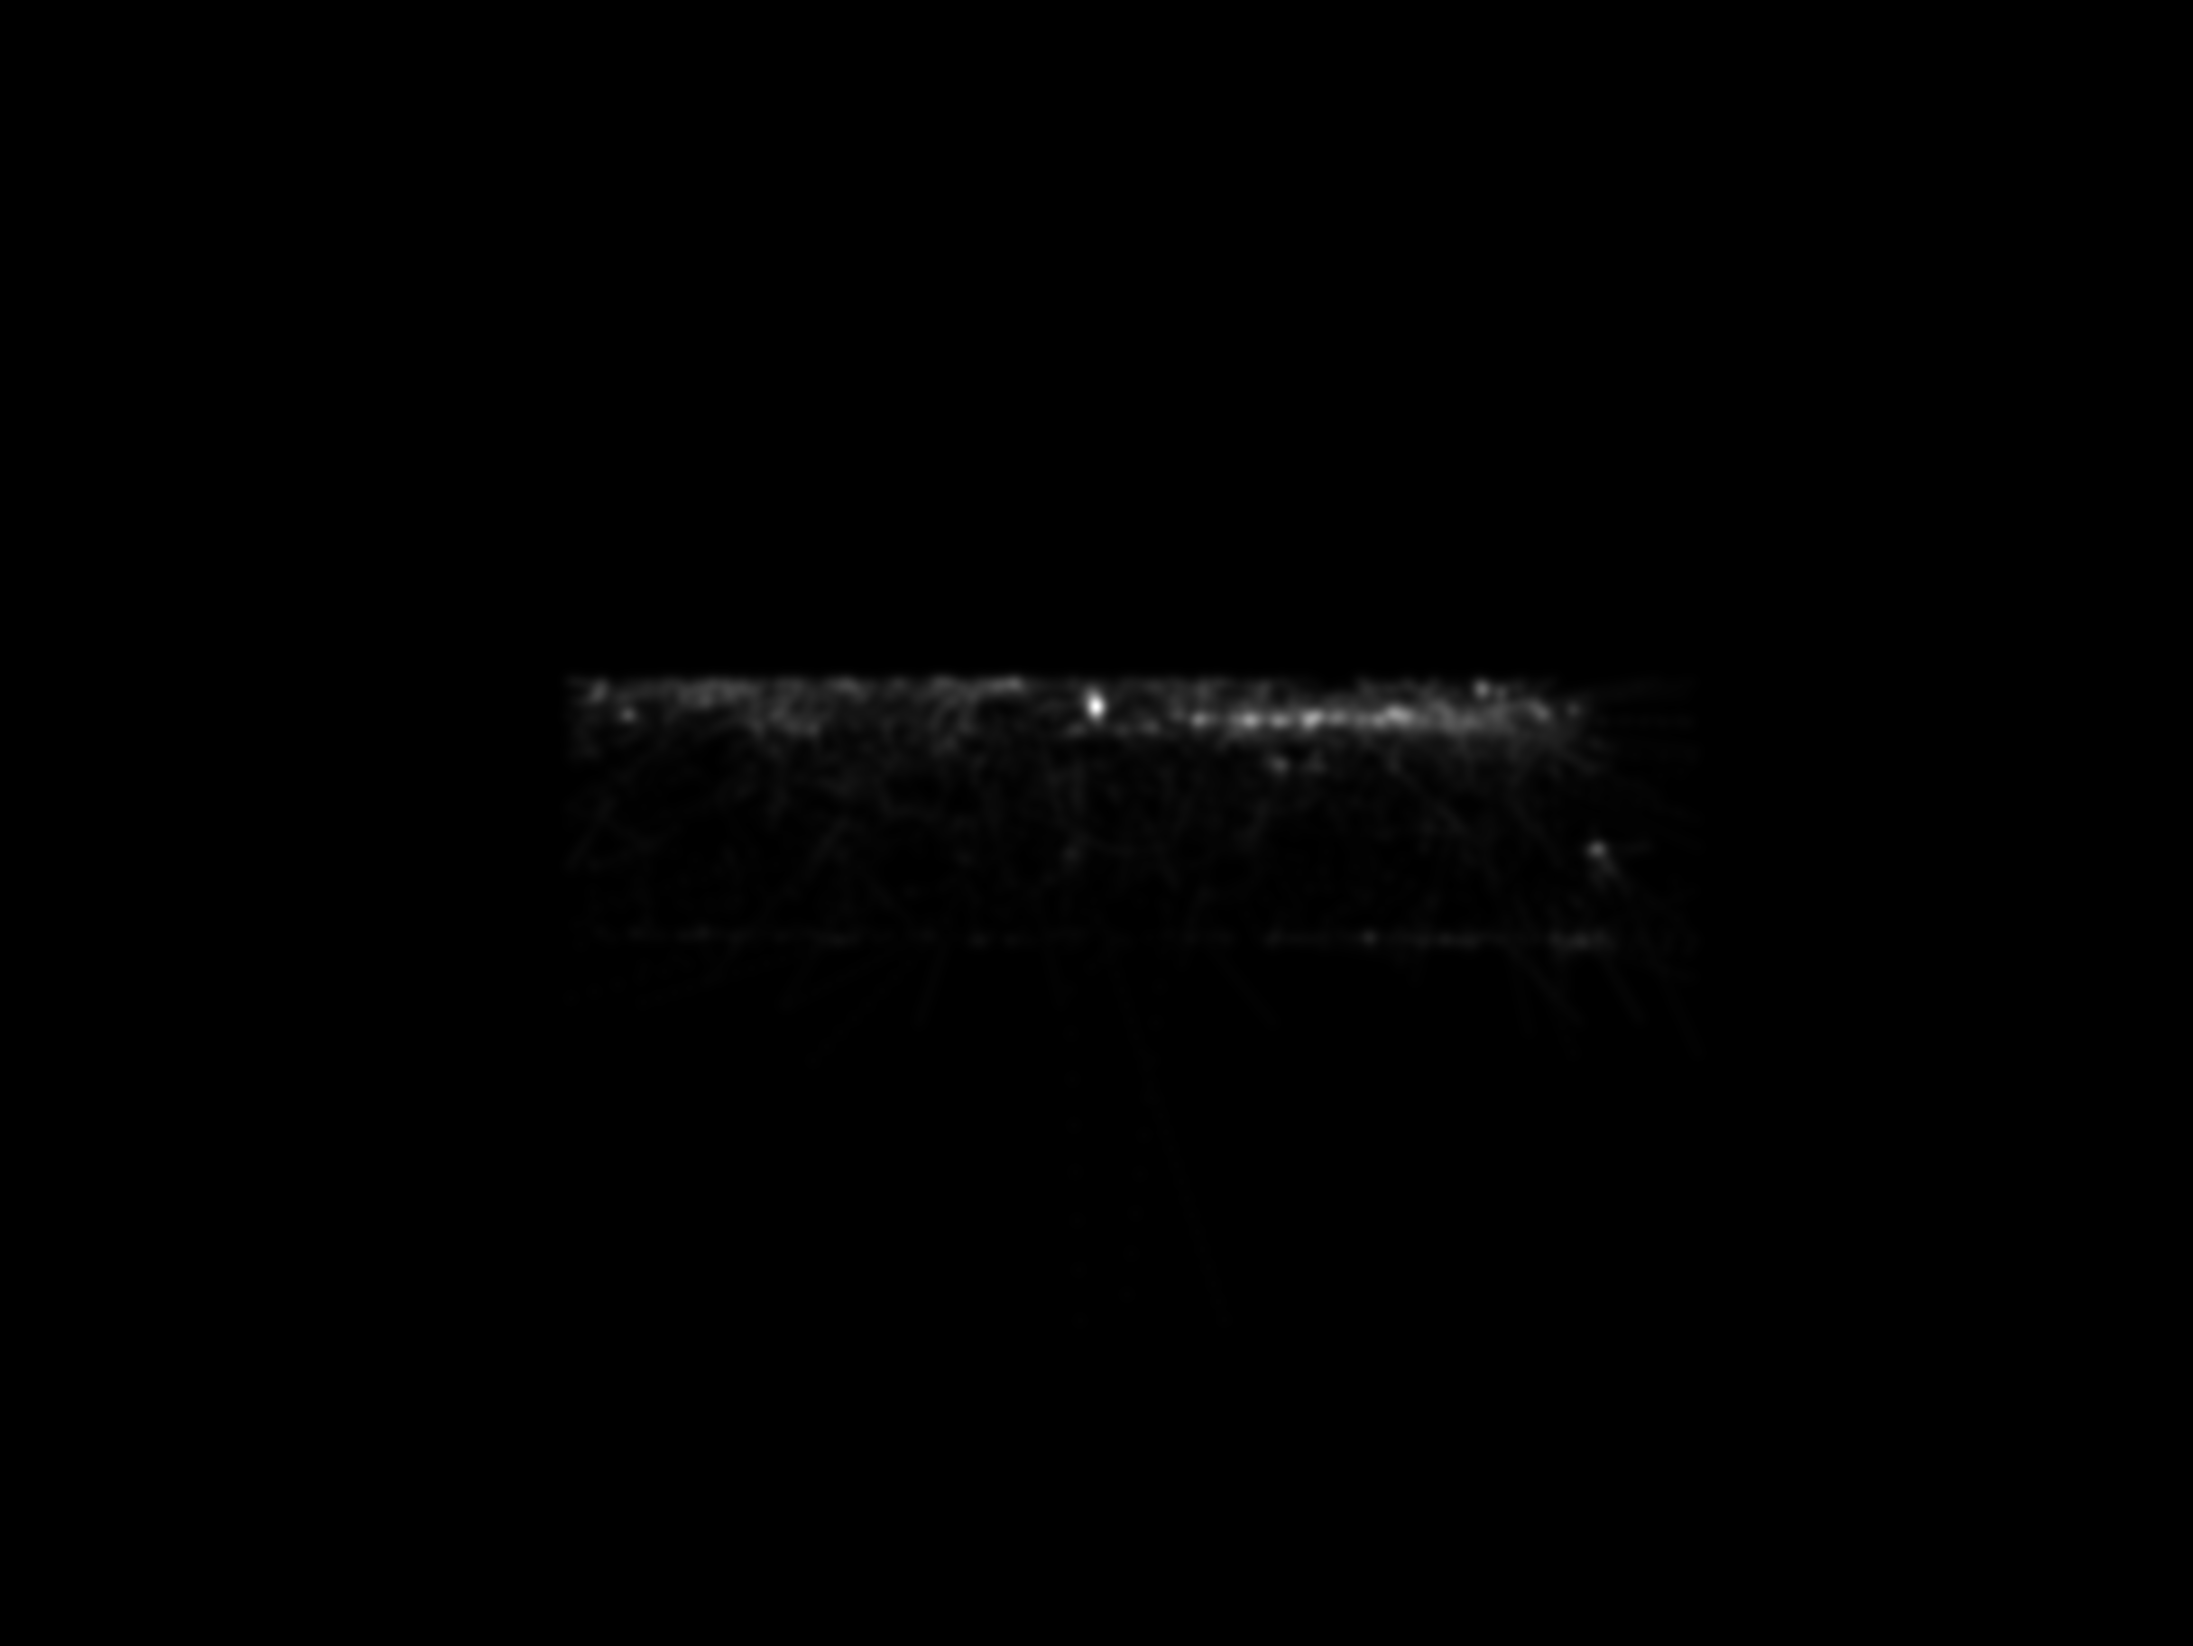
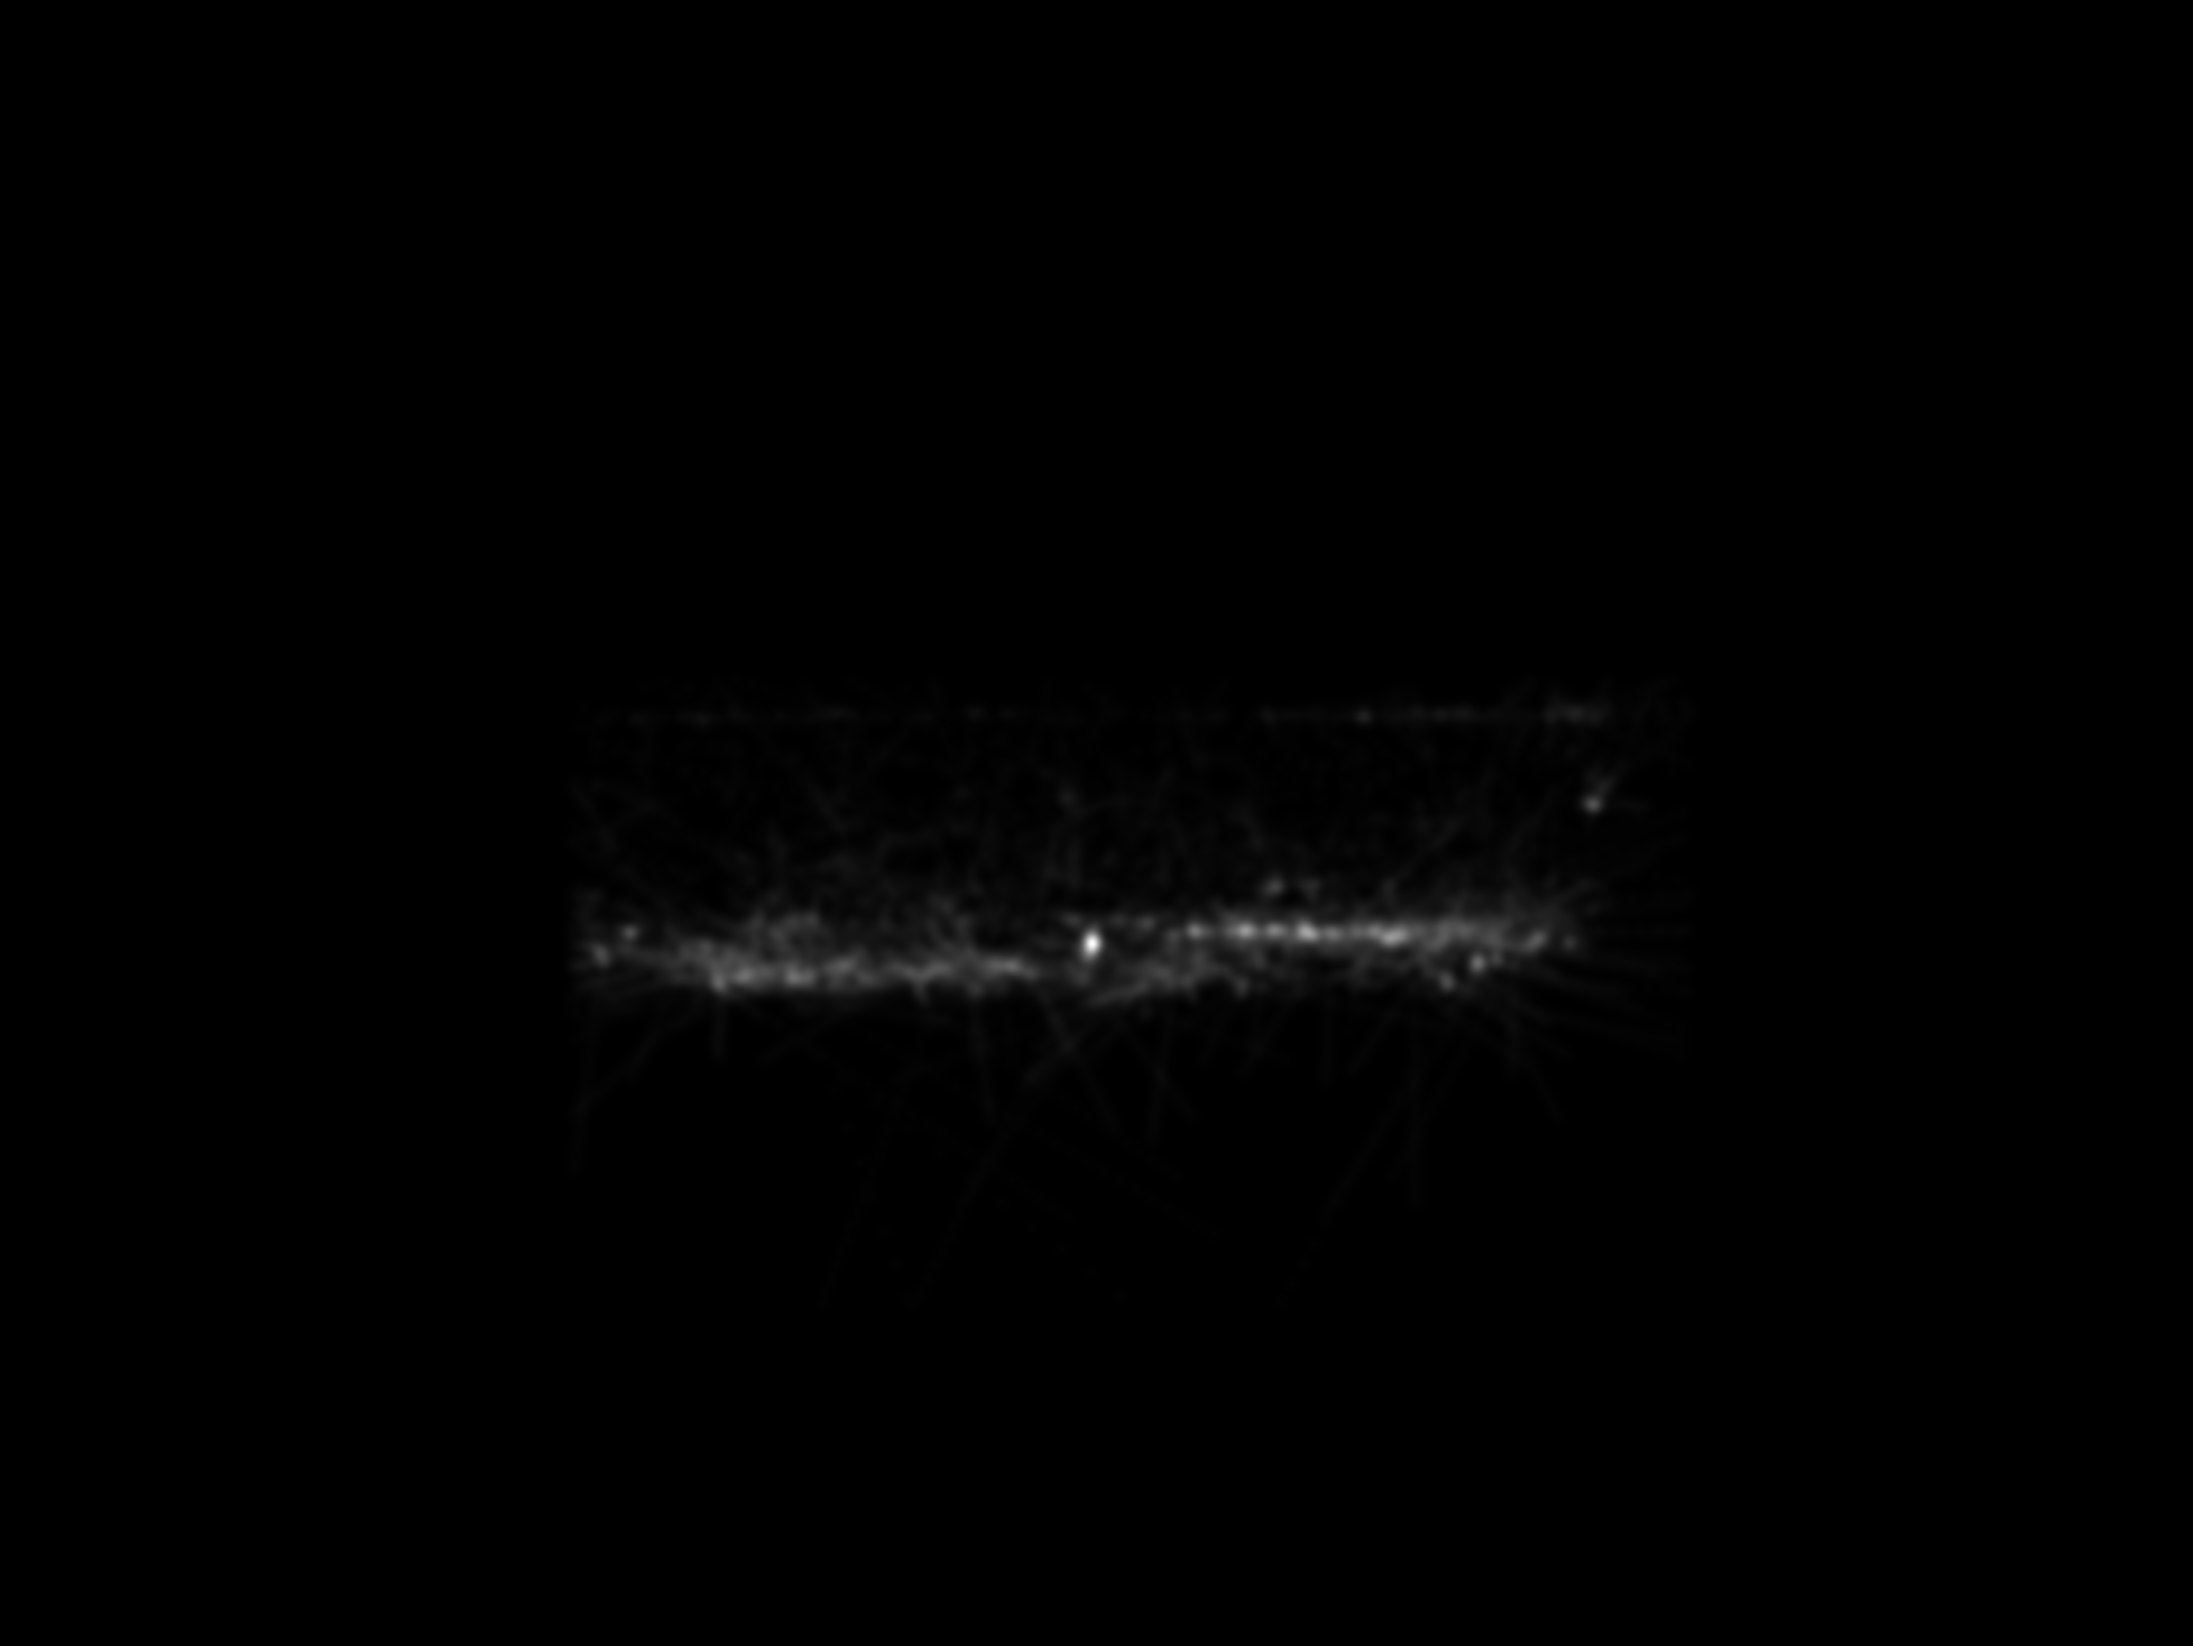
heatmap

Changed region(s): [[0.2491, 0.5288, 0.7163, 0.6221], [0.2491, 0.4044, 0.7163, 0.4666], [0.7163, 0.4666, 0.7474, 0.5288]]

diff --git a/plan_heatmap.py b/plan_heatmap.py
@@ -66,7 +66,7 @@ def _accumulate_heatmap(points_plan: np.ndarray, H: int, W: int):
     ys = np.clip(np.round(points_plan[:, 1]).astype(np.int32), 0, H - 1)
     for x, y in zip(xs, ys):
         # Decrease the accumulation value to prevent oversaturation in one spot
-        heat[y, x] += 1.0
+        heat[y, x] += 25.0
     return heat
 
 def _smooth_heatmap(heat: np.ndarray, kernel_size: int = 35, sigma: float = 0):
@@ -120,21 +120,15 @@ def generate_plan_heatmap_from_csv(
         raise RuntimeError(f"Failed to read plan image: {plan_image_path}")
     H_plan, W_plan = plan_bgr.shape[:2]
 
-    # --- THIS IS THE FIX ---
-    # The faulty 'if dst_points is None:' block has been completely removed.
-    # We now directly validate the dst_points that are passed in.
-    dst_points = np.asarray(dst_points, dtype=np.float32)
-    if dst_points.shape != (4, 2):
-        raise ValueError(f"dst_points must be a 4x2 array, but got shape {dst_points.shape}")
+    # --- THIS IS THE FIX for the inversion ---
+    # Flip the y-coordinates of the destination points to fix the vertical inversion.
+    # This aligns the top of the video (y=0) with the top of the selected plan area.
+    dst_points_flipped = dst_points.copy()
+    dst_points_flipped[:, 1] = H_plan - dst_points_flipped[:, 1]
+    Hmat = cv2.getPerspectiveTransform(src_points, dst_points_flipped)
+    # --- END FIX ---
 
-    src_points = np.asarray(src_points, dtype=np.float32)
-    if src_points.shape != (4, 2):
-        raise ValueError(f"src_points must be a 4x2 array, but got shape {src_points.shape}")
-
-    # Homography
-    Hmat = cv2.getPerspectiveTransform(src_points, dst_points)
-
-    # Load tracks
+    # 1. Select points from CSV and transform them
     df = pd.read_csv(csv_path)
     points_img = _select_points_from_df(df)  # Nx2
 
@@ -142,9 +136,6 @@ def generate_plan_heatmap_from_csv(
     pts = points_img.reshape(-1, 1, 2).astype(np.float32)
     pts_plan = cv2.perspectiveTransform(pts, Hmat).reshape(-1, 2)
 
-    # --- THIS IS THE FIX ---
-    # Filter out points that are outside the bounding box of the destination rectangle.
-    # This ensures no stray points appear outside the selected area on the plan.
     x_min, y_min = np.min(dst_points, axis=0)
     x_max, y_max = np.max(dst_points, axis=0)
     
@@ -164,7 +155,10 @@ def generate_plan_heatmap_from_csv(
     heat_smooth = _smooth_heatmap(heat_raw, kernel_size, sigma)
 
     # 4. Colorize and overlay onto the plan
-    result = _colorize_and_overlay(plan_bgr, heat_smooth, alpha)
+    # --- THIS IS THE FIX for the color ---
+    # Change the colormap to HOT for a more intuitive heat representation
+    result = _colorize_and_overlay(plan_bgr, heat_smooth, alpha, colormap=cv2.COLORMAP_HOT)
+    # --- END FIX ---
 
     # 5. Save and return
     if out_path:

diff --git a/homography_config.py b/homography_config.py
@@ -1,12 +1,13 @@
 import numpy as np
 
 # 4 points on the FLOOR in the CCTV frame (pixel coordinates)
-# Pick floor corners from your video frame
+# --- THIS IS THE FIX ---
+# The order is changed to a more intuitive Top-Left -> Top-Right -> Bottom-Right -> Bottom-Left
 src_points = np.array([
-    [320, 720],  # bottom-left in CCTV view
-    [960, 720],  # bottom-right
-    [1000, 400], # top-right
-    [280, 400]   # top-left
+    [280, 400],   # top-left
+    [1000, 400],  # top-right
+    [960, 720],   # bottom-right
+    [320, 720]    # bottom-left
 ], dtype=np.float32)
 
 # Top-view BEV size (output heatmap resolution)
@@ -18,5 +19,4 @@ dst_points = np.array([
     [0,          bev_height],
     [bev_width,  bev_height],
     [bev_width,  0],
-    [0,          0]
 ], dtype=np.float32)
